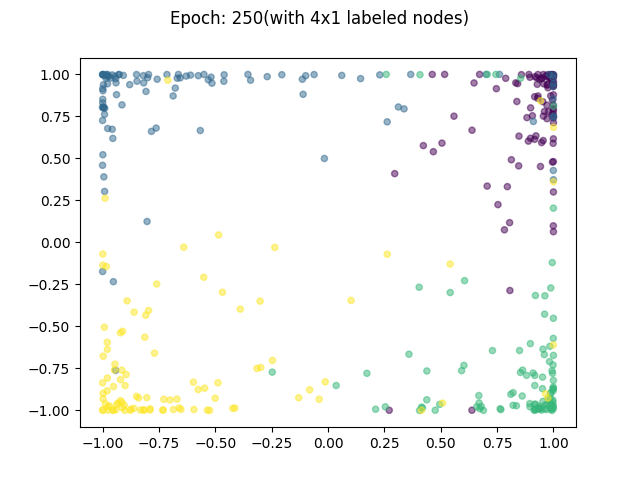
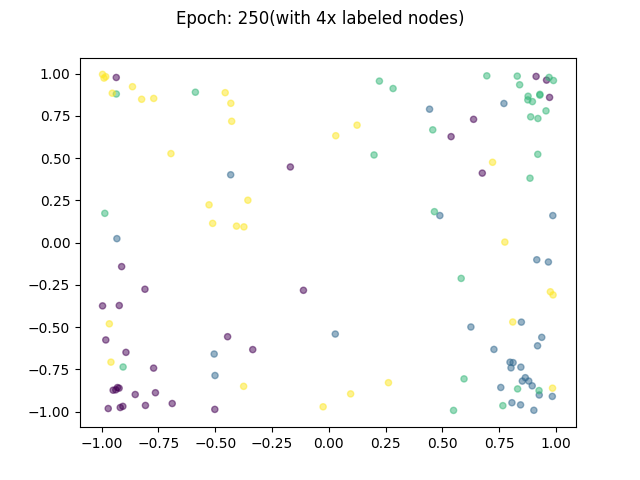
execute task for various n

diff --git a/scalefree_graph/task.py b/scalefree_graph/task.py
@@ -11,7 +11,7 @@ class Net(torch.nn.Module):
   def __init__(self):
     super(Net, self).__init__()
     n = 100
-    hidden_layer1 = 34
+    hidden_layer1 = 20
     hidden_layer2 = 4
     output_layer = 2
     self.conv1 = GCNConv(n, hidden_layer1)
@@ -38,10 +38,10 @@ def generate_figure(tmp, t, epoch):
   # print(tmp)
   # print(tmp.shape)
   fig = plt.figure()
-  fig.suptitle(f'Epoch: {epoch+1:03d}(with 4x labeled nodes)')
+  fig.suptitle(f'Epoch: {epoch+1:03d}(with fulle labeled nodes)')
   ax = fig.add_subplot(111)
   ax.scatter(tmp[0], tmp[1], c=t, alpha=0.5, s=20)
-  fig.savefig('./scalefree_graph/figures/epoch{}.png'.format(epoch+1))
+  fig.savefig('./scalefree_graph/figures/epoch{}_100.png'.format(epoch+1))
 
 def main():
   n = 100
@@ -75,8 +75,8 @@ def main():
     # print(out)
     # print(out.shape)
 
-    loss = F.nll_loss(out[samples], dataB.label[samples])
-    # loss = F.nll_loss(out, t)
+    # loss = F.nll_loss(out[samples], dataB.label[samples])
+    loss = F.nll_loss(out, t)
     # print(loss)
     # print(loss.shape)
     loss.backward()

diff --git a/README.md b/README.md
@@ -5,8 +5,17 @@ When semi-supervised learning is executed with a labeled node per class, the res
 Figure is show in `epochXXX_1.png`.
 
 ## scale-free network
-When all nodes of 100 are labeled, the result of test accracy is about 97.5%.
+When a node of 1000 is labeled, the result of test accracy is about 31.5%.
+Figure is show in `epochXXX_1_1000.png`.
+
+When all nodes of 100 are labeled, the result of test accracy is about 97.3%.
 Figure is show in `epochXXX_100_100.png`.
 
-When a node of 100 is labeled, the result of test accracy is about 58.0%.
+When a node of 100 is labeled, the result of test accracy is about 56.0%.
 Figure is show in `epochXXX_1_100.png`.
+
+When a node of 30 is labeled, the result of test accracy is about 66.7%.
+Figure is show in `epochXXX_1_30.png`.
+
+When a node of 10 is labeled, the result of test accracy is about 92.5%.
+Figure is show in `epochXXX_1_10.png`.
